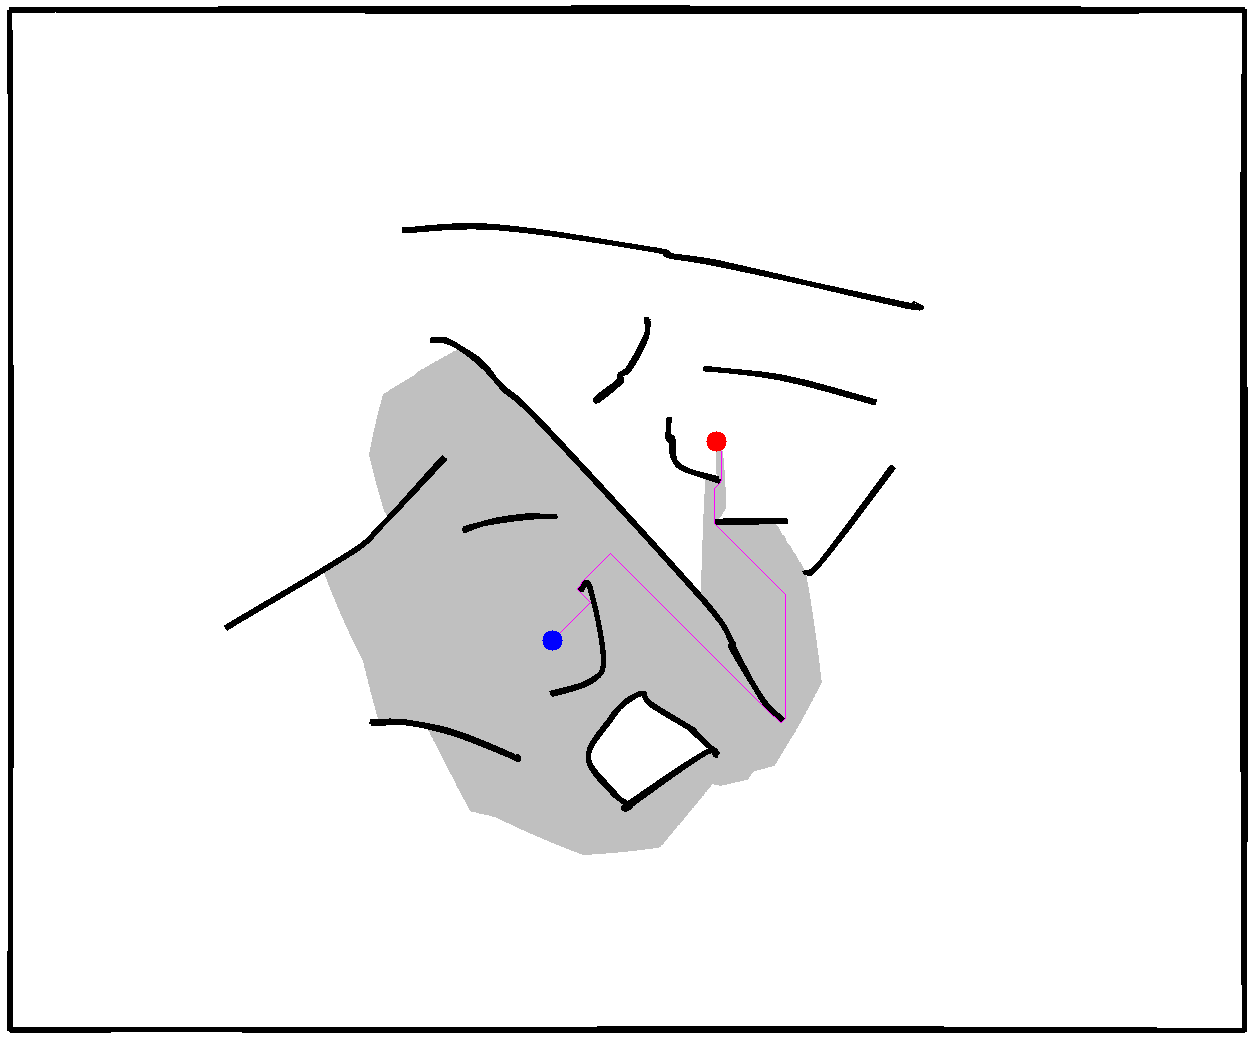
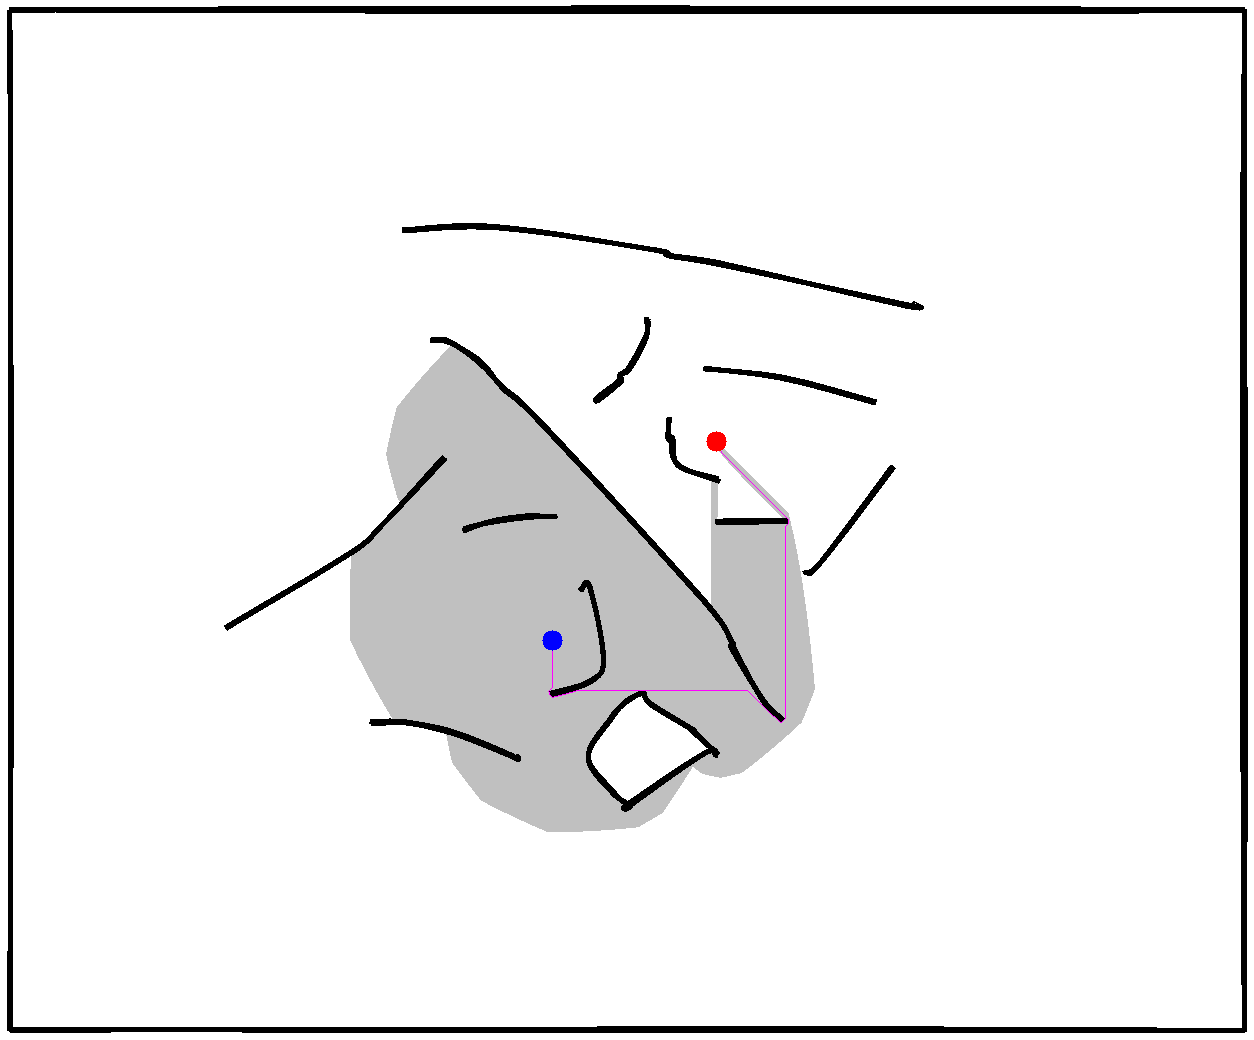
Add more cases

diff --git a/src/main/java/com/efim/astar/visual/Main.java b/src/main/java/com/efim/astar/visual/Main.java
@@ -8,7 +8,7 @@ import java.util.concurrent.TimeUnit;
 
 public class Main {
     public static void main(String[] args) {
-        var filename = "astar-2";
+        var filename = "astar-4";
         var weights = List.of(
                 new SearchParams("dijkstra", 1, 0),
                 new SearchParams("astar", 1, 1),
